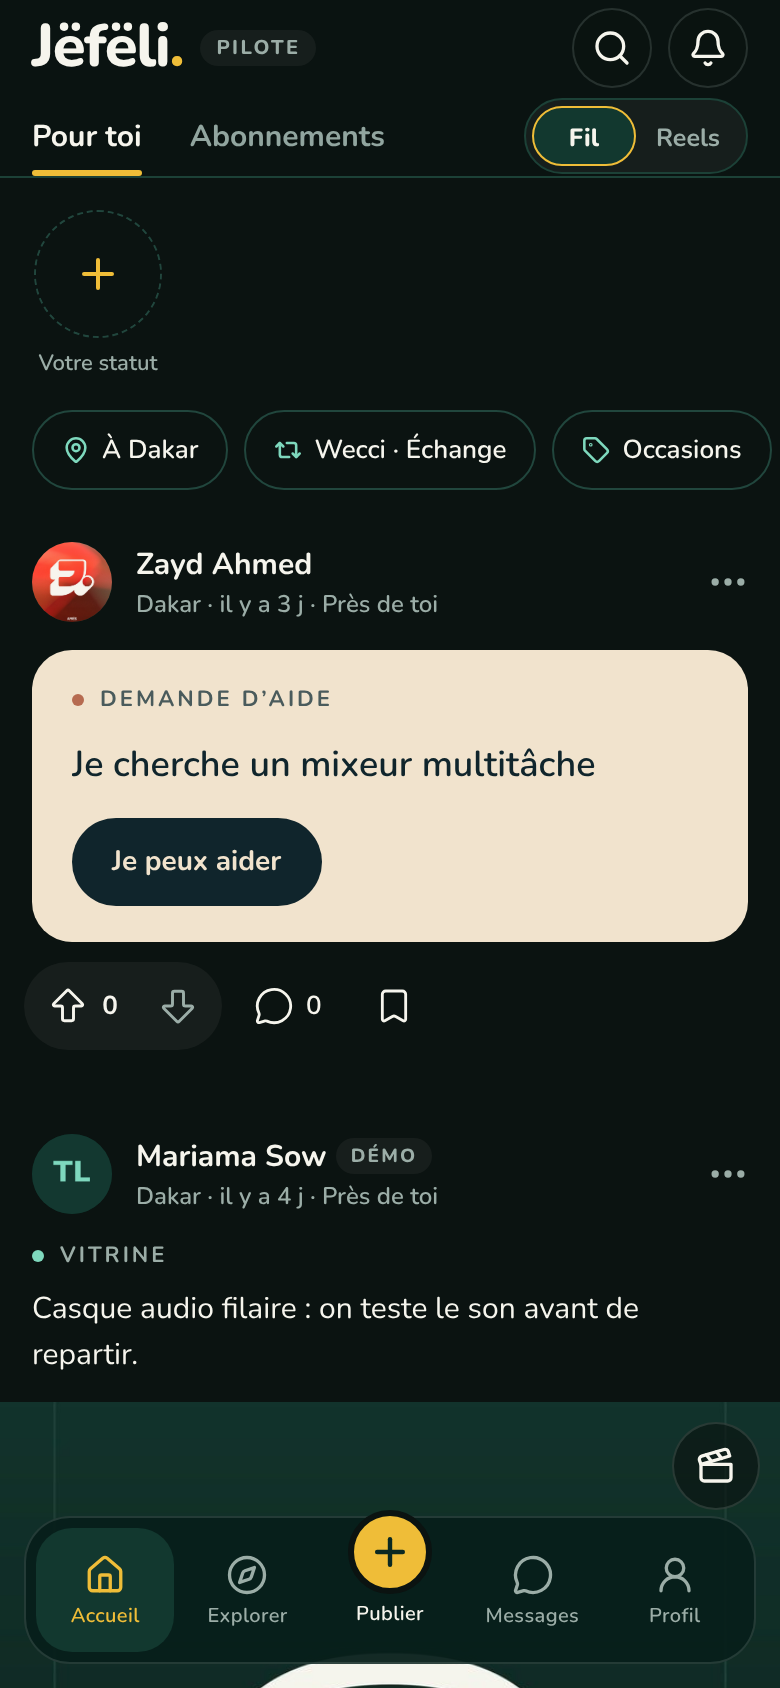
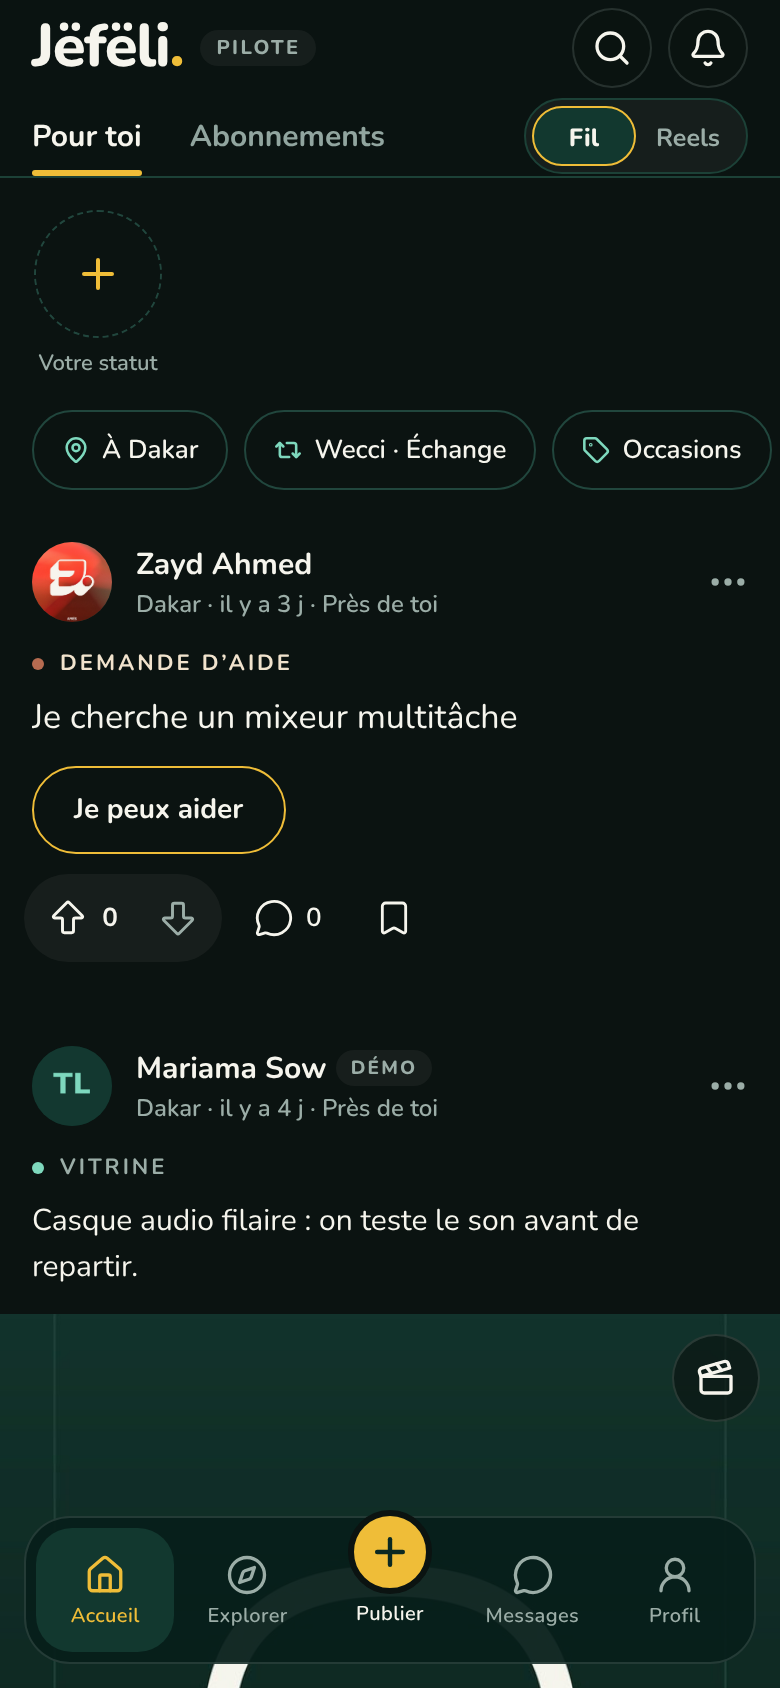
feat(feed): Demande d’aide as plain text like X (no card): sand label, clay dot, gold-contour button
Claude-Session: https://claude.ai/code/session_011aWCip8C77Vq41LcjphHDP

diff --git a/apps/mobile/src/components/PostCard.tsx b/apps/mobile/src/components/PostCard.tsx
@@ -94,7 +94,7 @@ function PostCardInner({
   const hasMedia = visual.length > 0;
   const long = post.body.length > (hasMedia ? 180 : 260);
   const eyebrow = eyebrowFor(intent, post, tagged.length > 0);
-  // Demande d’aide: the one light card of the feed (warm sand), so requests are recognised at a glance.
+  // Demande d’aide: plain text on the canvas like any post, recognised by its sand label (no card).
   const request = intent === 'seek' && !!post.body;
   const mediaWidth = width ?? Math.min(screenWidth, 640);
   const openPost = (focusComment = false) =>
@@ -172,11 +172,11 @@ function PostCardInner({
     <Pressable
       onPress={cta.onPress}
       disabled={contacting}
-      style={({ pressed }) => [styles.cta, request ? styles.ctaRequest : cta.tone === 'gold' ? styles.ctaGold : cta.tone === 'mint' ? styles.ctaMint : styles.ctaOutline, pressed && { transform: [{ scale: 0.97 }] }, contacting && { opacity: 0.6 }]}
+      style={({ pressed }) => [styles.cta, cta.tone === 'gold' ? styles.ctaGold : cta.tone === 'mint' ? styles.ctaMint : styles.ctaOutline, pressed && { transform: [{ scale: 0.97 }] }, contacting && { opacity: 0.6 }]}
       accessibilityRole="button"
       accessibilityLabel={cta.hint ? `${cta.label}. ${cta.hint}` : cta.label}
     >
-      <Text variant="callout" weight="700" color={request ? colors.requestPaper : dark.text}>
+      <Text variant="callout" weight="700" color={dark.text}>
         {cta.label}
       </Text>
     </Pressable>
@@ -186,16 +186,16 @@ function PostCardInner({
     <View style={styles.request} testID="request-card">
       <View style={styles.requestEyebrow} accessible accessibilityLabel={`Type de publication : ${INTENT_LABELS.seek}`}>
         <View style={styles.requestDot} />
-        <Text variant="micro" weight="700" color={colors.requestMuted} style={styles.eyebrowText}>
+        <Text variant="micro" weight="700" color={colors.requestLabel} style={styles.eyebrowText}>
           DEMANDE D’AIDE
         </Text>
       </View>
       <Pressable onPress={() => (long && !expanded ? setExpanded(true) : openPost())} accessibilityHint="Ouvrir la publication">
-        <Text variant="body" weight="500" color={colors.requestInk} numberOfLines={expanded ? undefined : 8} style={styles.requestText}>
+        <Text variant="body" color={dark.textStrong} numberOfLines={expanded ? undefined : 8} style={styles.requestText}>
           {post.body}
         </Text>
         {long && !expanded ? (
-          <Text variant="callout" weight="700" color={colors.requestMuted} style={{ marginTop: 4 }}>
+          <Text variant="callout" tone="fogSecondary" weight="600" style={{ marginTop: 4 }}>
             … voir plus
           </Text>
         ) : null}
@@ -454,19 +454,11 @@ const styles = StyleSheet.create({
     overflow: 'hidden',
     gap: spacing.lg,
   },
-  request: {
-    marginHorizontal: spacing.lg,
-    paddingHorizontal: 20,
-    paddingVertical: 18,
-    borderRadius: radius.card,
-    backgroundColor: colors.requestPaper,
-    gap: spacing.md,
-  },
+  request: { paddingHorizontal: spacing.lg, gap: spacing.sm },
   requestEyebrow: { flexDirection: 'row', alignItems: 'center', gap: 8 },
-  requestDot: { width: 6, height: 6, borderRadius: 3, backgroundColor: colors.requestClay },
-  requestText: { fontSize: 18, lineHeight: 26 },
-  requestActions: { flexDirection: 'row', alignItems: 'center', paddingTop: 2 },
-  ctaRequest: { backgroundColor: colors.requestInk, borderWidth: 2, borderColor: dark.gold },
+  requestDot: { width: 6, height: 6, borderRadius: 3, backgroundColor: colors.requestDot },
+  requestText: { fontSize: 17, lineHeight: 24 },
+  requestActions: { flexDirection: 'row', alignItems: 'center', paddingTop: 4 },
   quoteText: { fontSize: 22, lineHeight: 30 },
   quoteActions: { flexDirection: 'row', alignItems: 'center', gap: spacing.md },
   bodyAbove: { paddingHorizontal: spacing.lg, paddingBottom: spacing.md },

diff --git a/packages/shared/src/tokens.ts b/packages/shared/src/tokens.ts
@@ -25,12 +25,10 @@ export const palette = {
   red: '#DB4A35', // unread, favourites, errors
   live: '#D93A44', // ONLY a real « EN DIRECT »
   disabled: '#3C5C53',
-  // Demande d’aide (owner, 21 Nov 2026): the ONE light surface of the app, kept for « Je cherche… » requests
-  // so that people learn to recognise them at a glance. Premium paper against the dark feed.
-  sand: '#F1E3CD', // warm sand paper
-  sandInk: '#10252C', // deep ink: text and button on the sand
-  sandMuted: '#4A5B5C', // supporting text on the sand (5.6:1)
-  clay: '#B66B50', // muted clay: dot and hairline accents only (3.2:1, never text)
+  // Demande d’aide (owner, 21 Nov 2026): requests are plain text on the canvas (no card, like X). Warm sand is
+  // their signature: the « DEMANDE D’AIDE » label; muted clay is the dot beside it. Used for nothing else.
+  sand: '#F1E3CD', // warm sand: the request label
+  clay: '#B66B50', // muted clay: the dot (3:1 non-text on the canvas), never text
   logoMint: '#A3E4D7', // the « Jëfëli. » logo letters only (unchanged brand asset)
   black: '#000000', // media stages (video, statuses) only
   white: '#FFFFFF', // text and icons over photos and video only
@@ -79,11 +77,9 @@ export const colors = {
   darkText: palette.ink,
   night: palette.canvas,
   logoMint: palette.logoMint,
-  // Demande d’aide card: reserved for requests, nothing else may use it.
-  requestPaper: palette.sand,
-  requestInk: palette.sandInk,
-  requestMuted: palette.sandMuted,
-  requestClay: palette.clay,
+  // Demande d’aide: label and dot, reserved for requests.
+  requestLabel: palette.sand,
+  requestDot: palette.clay,
   white: palette.white,
   black: palette.black,
   overlay: 'rgba(5, 9, 8, 0.62)',

diff --git a/packages/shared/test/contrast.test.ts b/packages/shared/test/contrast.test.ts
@@ -16,7 +16,7 @@ export function contrast(a: string, b: string): number {
   return (hi! + 0.05) / (lo! + 0.05);
 }
 
-const { canvas, surface, raised, ink, slate, stone, gold, onGold, mint, red, live, white, black, sand, sandInk, sandMuted, clay } = palette;
+const { canvas, surface, raised, ink, slate, stone, gold, onGold, mint, red, live, white, black, sand, clay } = palette;
 
 /** [foreground, background, minimum, where it is used] */
 const PAIRS: [string, string, number, string][] = [
@@ -39,10 +39,8 @@ const PAIRS: [string, string, number, string][] = [
   [red, canvas, 3, 'red icons: favourites, errors'],
   [white, live, 3, '« EN DIRECT » label (bold)'],
   [white, black, 4.5, 'captions over video'],
-  [sandInk, sand, 4.5, 'Demande d’aide: request text on the sand card'],
-  [sandMuted, sand, 4.5, 'Demande d’aide: author line, eyebrow, hints on the sand card'],
-  [sand, sandInk, 4.5, 'Demande d’aide: « Je peux aider » label on its deep-ink pill'],
-  [clay, sand, 3, 'Demande d’aide: clay dot and hairline (non-text UI threshold)'],
+  [sand, canvas, 4.5, 'Demande d’aide: the « DEMANDE D’AIDE » label on the canvas'],
+  [clay, canvas, 3, 'Demande d’aide: the clay dot (non-text UI threshold)'],
 ];
 
 describe('WCAG AA contrast of the token pairs', () => {

diff --git a/docs/P5_DEMANDE_D_AIDE.md b/docs/P5_DEMANDE_D_AIDE.md
@@ -1,24 +1,18 @@
-# P5 — La Demande d’aide en papier sable (21 nov. 2026)
+# P5 — La Demande d’aide, sans carte (21 nov. 2026)
 
-Demande du propriétaire : les publications « Je cherche… » se distinguent des publications ordinaires par une carte **sable chaud**,
-« comme du papier de qualité », ni jaune vif ni un autre vert. Branche `feature/p5-demande-d-aide`.
+Première version : une carte sable (`#F1E3CD`). **Refusée par le propriétaire** (« pourquoi ne pas se fondre comme sur X, pas besoin de cartes pour contenir
+le texte »). Version retenue : le texte d’une demande se pose directement sur le fond, comme toute publication.
 
 ```
- ● DEMANDE D’AIDE                        (puce argile, texte encre atténuée)
- Je cherche des pots en verre de 100 à 250 ml…   (encre profonde, Nunito 18)
- [ Je peux aider ]                       (pilule encre profonde, texte sable)
+ ● DEMANDE D’AIDE                         (puce argile #B66B50, libellé sable #F1E3CD)
+ Je cherche des pots en verre de 100 à 250 ml…    (texte normal, sur le fond)
+ [ Je peux aider ]                        (pilule à contour doré, sans fond)
 ```
-- Couleurs (tokens uniquement) : sable `#F1E3CD`, encre `#10252C`, argile `#B66B50`, plus l’encre atténuée `#4A5B5C` pour le texte secondaire.
-- Contrastes WCAG vérifiés (`contrast.test.ts`) : encre/sable 12,6:1, atténuée/sable 5,6:1, sable/encre (bouton) 12,6:1, argile/sable 3,2:1 (point
-  et filet seulement, jamais du texte : l’argile pur ferait 3,2:1, insuffisant pour du texte).
-- Réservé aux demandes (`intent = seek`) : c’est la seule surface claire de l’application ; la règle est inscrite dans `docs/DESIGN_SYSTEM.md` et `CLAUDE.md`.
-- Pas de motif, d’illustration ni d’ombre. Le bouton « Je peux aider » : fond encre profonde, **contour doré** de 2 px (un filet, pas un aplat : le budget d’or est inchangé).
-- Une demande avec photos ou voix garde la carte sable au-dessus du média ; la ligne auteur, les votes et les commentaires restent sur le fond sombre.
-
-Évidence : `docs/evidence/p5/demande-d-aide-feed.png` (390 px, staging, compte famille).
+- Aucune carte, aucun fond clair : le thème reste entièrement sombre. La demande se reconnaît à son libellé sable et à sa puce argile.
+- Couleurs en tokens (`colors.requestLabel`, `requestDot`) ; contrastes dans `contrast.test.ts` : sable/fond 12:1, argile/fond ≥ 3:1 (puce, jamais du texte).
+- Le contour doré du bouton est un filet, pas un aplat : le budget d’or reste respecté.
 
 ## Tirer pour actualiser sur le web (appli ajoutée à l’écran d’accueil)
 `RefreshControl` n’existe pas sur le web et une appli installée n’a pas le geste du navigateur. `components/PullToRefresh.tsx` écoute le toucher
-(depuis le haut de la liste, relâcher au-delà de 72 px) et recharge : fil (Pour toi, Abonnements), Explorer, Messages, Notifications, Profil.
-Sur les applis natives le composant ne fait rien (le `RefreshControl` natif reste). Vérifié avec un toucher émulé à 390 px : un petit tirage ne
-recharge pas, un tirage long relance les requêtes (`docs/evidence/p5/pull-to-refresh-*.png`). Les Reels (pagination plein écran) n’ont pas ce geste sur le web.
+(depuis le haut de la liste, relâcher au-delà de 72 px) et recharge : fil, Explorer, Messages, Notifications, Profil. Sur natif il ne fait rien
+(le `RefreshControl` natif reste). Vérifié avec un toucher émulé à 390 px (`docs/evidence/p5/pull-to-refresh-*.png`). Pas de geste sur les Reels web.

diff --git a/CLAUDE.md b/CLAUDE.md
@@ -6,7 +6,7 @@ This file is the operating contract for coding agents working on Jëfëli. Read 
 - Use exact brand typography `Jëfëli` in UI and `jefeli` in technical identifiers (name in text; the logo asset keeps its own letters `#A3E4D7`).
 - One visual system, everywhere (owner, 14–15 Nov 2026; authoritative copy in `docs/DESIGN_SYSTEM.md`):
   - **Tokens only.** Every colour value is written once, in `packages/shared/src/tokens.ts`. No hex, `rgb()` or `rgba()` anywhere else — screens, CSS, web pages and tests use the tokens (`packages/shared/test/no-raw-colors.test.ts` fails the build otherwise; config, HTML and SVG files may only use palette values). Contrast pairs are checked against WCAG AA (`packages/shared/test/contrast.test.ts`): re-run it whenever a token changes.
-  - **One dark theme**, phone, desktop and public web. Canvas `#0B1311` (near-black, slight green). Green surfaces `#0B2922` / `#12382F` for headers, sheets, raised panels and brand moments. Ink `#F6F5ED`, slate `#9BADA7`. No light theme, except the single warm-sand « Demande d’aide » card (owner, 21 Nov 2026; `colors.request*`, reserved for « Je cherche… » requests).
+  - **One dark theme**, phone, desktop and public web. Canvas `#0B1311` (near-black, slight green). Green surfaces `#0B2922` / `#12382F` for headers, sheets, raised panels and brand moments. Ink `#F6F5ED`, slate `#9BADA7`. No light theme. « Je cherche… » requests are plain text like any post (no card), signed by a warm-sand « DEMANDE D’AIDE » label and a clay dot (`colors.request*`).
   - **Photos read true.** Every photo, video, thumbnail, gallery and loading backdrop sits on the neutral `colors.mediaBackdrop` (`#0B1311`), never on a tinted green surface.
   - **Nunito only** (one family): headings 800/900, eyebrows tracked +1, labels 600/700, body 400. Check ë é è à ç render.
   - **Three accents, one job each.** Gold `#EFBD38` = the primary action and Jëf. Mint `#7ED8BD` = Wecci and discovery tags. Red `#DB4A35` = unread, favourites, errors; `live` red only for a real « EN DIRECT ». Errors are light text with a red border or icon, never red text.

diff --git a/docs/DESIGN_SYSTEM.md b/docs/DESIGN_SYSTEM.md
@@ -20,7 +20,7 @@ the admin pages and desktop are all dark.
 | **Red — attention** | `colors.red` / `danger` | `#DB4A35` | unread badges, favourites, error borders and icons |
 | Live | `colors.live` | `#D93A44` | only a real « EN DIRECT » |
 | Text | `ink` `#F6F5ED`, `textSecondary` `#9BADA7`, `textTertiary` `#91A59F` | | text, never pure white except over photos and video (`colors.white`, `media*`) |
-| **Demande d’aide (sand card)** | `colors.requestPaper` / `requestInk` / `requestMuted` / `requestClay` (`palette.sand` `#F1E3CD`, `sandInk` `#10252C`, `sandMuted` `#4A5B5C`, `clay` `#B66B50`) | warm sand paper | **The one light surface of the app (owner, 21 Nov 2026), reserved exclusively for « Je cherche… » requests** (`intent = seek`) so people learn to recognise them at a glance. Deep ink text, clay dot as the only accent (3.2:1: never text), « Je peux aider » is a deep-ink pill (not gold: the gold budget is untouched). No pattern, illustration or shadow. Nothing else may use these tokens. Contrast pairs are in `contrast.test.ts` |
+| **Demande d’aide** | `colors.requestLabel` / `requestDot` (`palette.sand` `#F1E3CD`, `palette.clay` `#B66B50`) | warm sand label, clay dot | **Requests are plain text on the canvas, like X: no card (owner, 21 Nov 2026; a sand card was tried and rejected).** The « DEMANDE D’AIDE » eyebrow is sand (12:1 on the canvas) with a muted-clay dot (3:1, never text); « Je peux aider » is an outline pill with a gold contour. Reserved for `intent = seek`. Contrast pairs are in `contrast.test.ts` |
 | Logo | `palette.logoMint` | `#A3E4D7` | the « Jëfëli. » letters only (brand assets unchanged) |
 
 - The `light` token set and every « paper » variant are gone.
